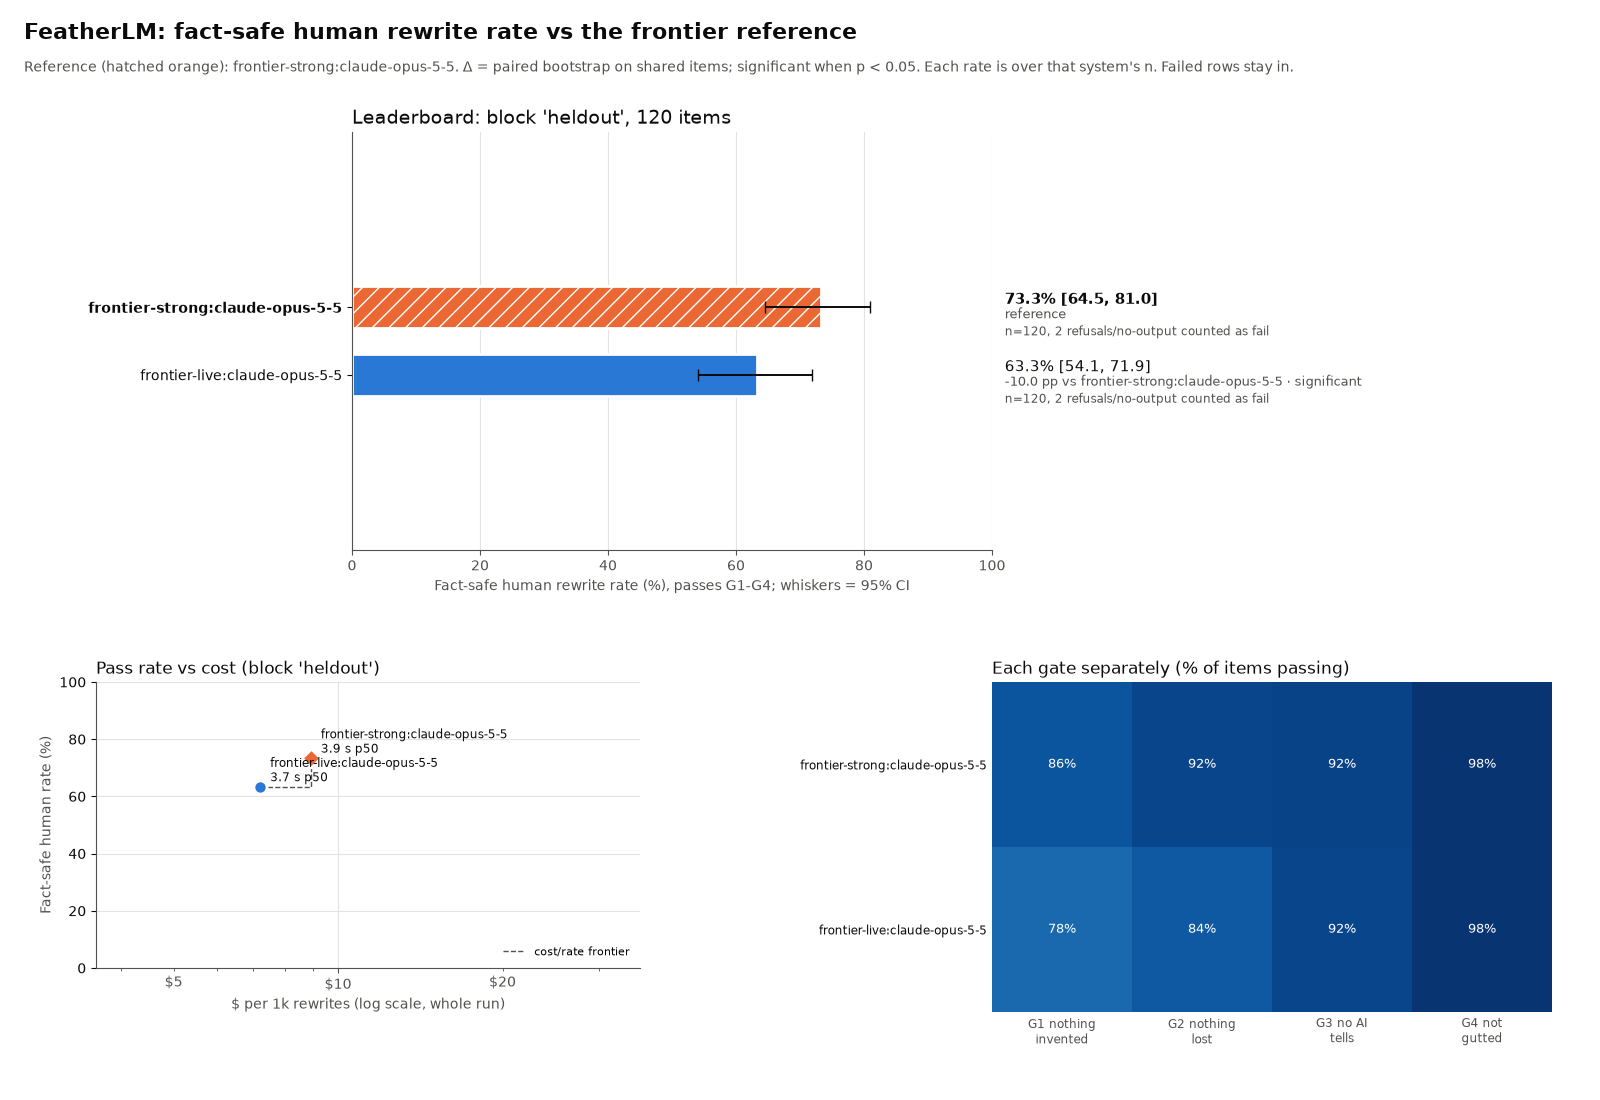
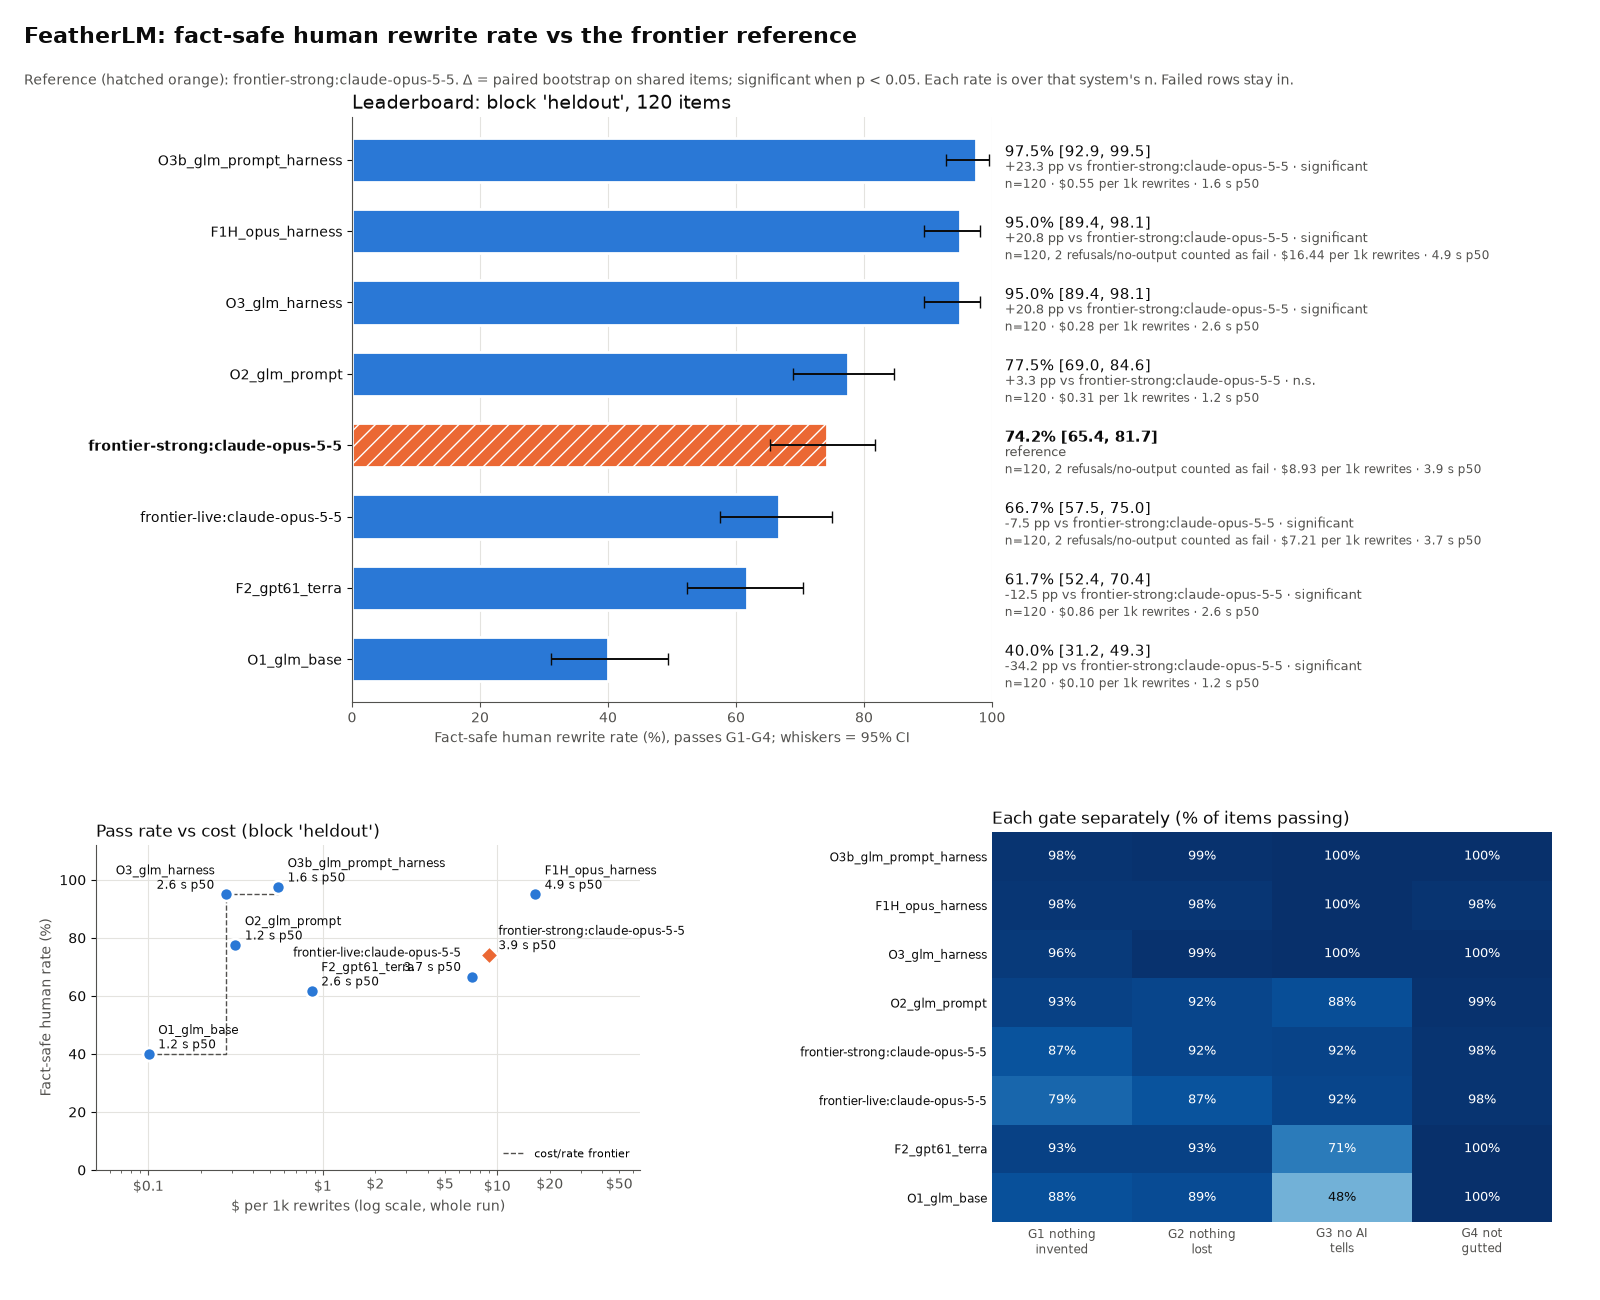
eval: leaderboard with all 9 systems and cost per 1k rewrites per row
Each row's third line now carries $ per 1k rewrites and p50 latency
(cost is the differentiator: GLM harness ~$0.28-0.55 vs Opus+harness
$16.44 at the same pass rate). Taller figure so nine 3-line rows don't
overlap; Pareto labels of close points go left of the point; headroom
above 100%.

diff --git a/hackathon/eval/plot.py b/hackathon/eval/plot.py
@@ -121,6 +121,14 @@ def coverage_note(entry: dict, n_items) -> str:
     return note
 
 
+def cost_note(meta: dict) -> str:
+    """'$8.93 per 1k rewrites · 3.9 s p50' from a top-level systems[] entry; 'cost n/a' when unknown or $0."""
+    cost = _num(meta.get("cost_per_1k_usd"))
+    p50 = _num((meta.get("latency_ms") or {}).get("p50"))
+    note = f"${cost:.2f} per 1k rewrites" if cost and cost > 0 else "cost n/a"
+    return note + (f" · {p50 / 1000:.1f} s p50" if p50 is not None else "")
+
+
 def _leaderboard(ax, rows: list[tuple], name: str, n_items, notes: dict[str, str]) -> None:
     y = list(range(len(rows)))[::-1]  # first (best) row on top
     for yi, (lab, r, lo, hi, note, is_ref) in zip(y, rows):
@@ -159,11 +167,15 @@ def _pareto(ax, points: list[tuple], no_cost: list[str], name: str) -> None:
         fp = sorted((p for p in points if p[0] in front), key=lambda p: p[1])
         ax.step([p[1] for p in fp], [p[2] for p in fp], where="post", color=INK2, linewidth=1, linestyle="--",
                 zorder=1, label="cost/rate frontier")
-        for lab, cost, rate, p50, is_ref in points:
+        placed = []  # (log cost, rate) of labels already drawn; a close neighbour puts this label left of its point
+        for lab, cost, rate, p50, is_ref in sorted(points, key=lambda p: (-p[2], p[1])):
             ax.scatter(cost, rate, s=90, color=REF if is_ref else SYS, marker="D" if is_ref else "o",
                        edgecolor="white", linewidth=2, zorder=3)
             txt = lab + (f"\n{p50:.1f} s p50" if p50 is not None else "")
-            ax.annotate(txt, (cost, rate), xytext=(7, 4), textcoords="offset points", fontsize=8.5, color=INK)
+            near = any(abs(math.log10(cost) - c) < 0.5 and abs(rate - r) < 8 for c, r in placed)
+            ax.annotate(txt, (cost, rate), xytext=(-8, 4) if near else (7, 4), textcoords="offset points",
+                        ha="right" if near else "left", fontsize=8.5, color=INK)
+            placed.append((math.log10(cost), rate))
         ax.set_xscale("log")
         costs = [p[1] for p in points]
         ax.set_xlim(min(costs) / 2, max(costs) * 4)
@@ -173,7 +185,8 @@ def _pareto(ax, points: list[tuple], no_cost: list[str], name: str) -> None:
     else:
         ax.text(0.5, 0.5, "no systems with cost data", transform=ax.transAxes, ha="center", va="center", color=INK2)
         ax.set_xticks([])
-    ax.set_ylim(0, 100)
+    ax.set_ylim(0, 112)  # headroom so labels of ~95% points stay under the title
+    ax.set_yticks(range(0, 101, 20))
     ax.grid(color=GRID, zorder=0)
     ax.set_axisbelow(True)
     if no_cost:
@@ -204,11 +217,13 @@ def render(res: dict, name: str, out: str) -> str:
                          "xtick.color": INK2, "ytick.color": INK, "axes.spines.top": False,
                          "axes.spines.right": False})
     # Leaderboard across the top with its notes in a wide right-hand column; Pareto and gates share the bottom row.
-    fig = plt.figure(figsize=(16, 11), dpi=100, facecolor="white")
-    notes = {e.get("label"): coverage_note(e, b.get("n_items", "?")) for e in b["systems"]}
-    _leaderboard(fig.add_axes((0.22, 0.50, 0.40, 0.38)), rows, name, b.get("n_items", "?"), notes)
-    _pareto(fig.add_axes((0.06, 0.12, 0.34, 0.26)), points, no_cost, name)
-    _gates(fig.add_axes((0.62, 0.08, 0.35, 0.30)), *gate_rows(b))
+    fig = plt.figure(figsize=(16, 13), dpi=100, facecolor="white")
+    meta = {s.get("label"): s for s in res.get("systems") or []}
+    notes = {e.get("label"): coverage_note(e, b.get("n_items", "?")) + " · " + cost_note(meta.get(e.get("label")) or {})
+             for e in b["systems"]}
+    _leaderboard(fig.add_axes((0.22, 0.46, 0.40, 0.45)), rows, name, b.get("n_items", "?"), notes)
+    _pareto(fig.add_axes((0.06, 0.10, 0.34, 0.25)), points, no_cost, name)
+    _gates(fig.add_axes((0.62, 0.06, 0.35, 0.30)), *gate_rows(b))
     fig.suptitle("FeatherLM: fact-safe human rewrite rate vs the frontier reference", x=0.015, ha="left",
                  fontsize=16, fontweight="bold", color=INK)
     ref_line = (f"Reference (hatched orange): {ref}." if any(r[5] for r in rows)

diff --git a/hackathon/eval/test_plot.py b/hackathon/eval/test_plot.py
@@ -62,6 +62,12 @@ class TestNotes(unittest.TestCase):
         self.assertEqual(pl.coverage_note(part, 250), "n=130 of 250 items only; Δ on 130 shared items")
         self.assertEqual(pl.coverage_note(_entry("Q", 0.2), 100), "n=100")
 
+    def test_cost_note(self):
+        self.assertEqual(pl.cost_note({"cost_per_1k_usd": 8.925, "latency_ms": {"p50": 3867.0}}),
+                         "$8.93 per 1k rewrites · 3.9 s p50")
+        self.assertEqual(pl.cost_note({"cost_per_1k_usd": 0.0}), "cost n/a")
+        self.assertEqual(pl.cost_note({}), "cost n/a")
+
     def test_rows_keep_order_and_zero_rate(self):
         rows = pl.bar_rows(synthetic()["blocks"]["all"], "F1")
         self.assertEqual([r[0] for r in rows], ["O4-sft", "F1", "O1-base", "O6-rl-failed"])
